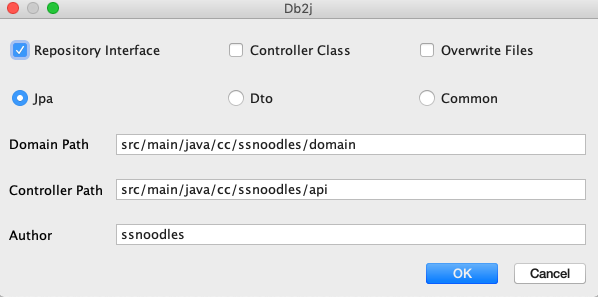
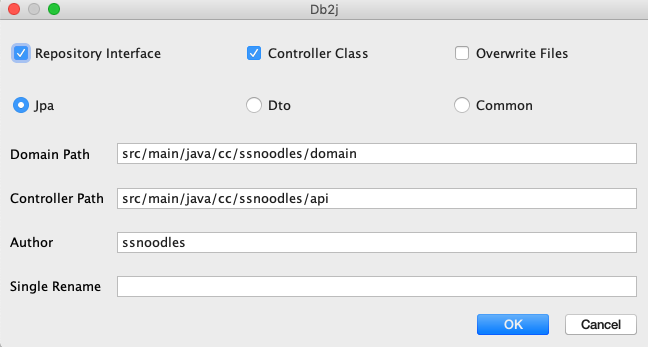
updated readme

diff --git a/README.md b/README.md
@@ -1,7 +1,7 @@
 # Db2j idea plugin
 [中文](README_CN.md)
 
-Features：use in database tool, select database tables to generate java files. includes: domain、repository、controller。
+Features：use in database tool, select database tables to generate java files. includes: domain、repository、controller.
 Idea Version：Ultimate 2019.1+
 [Plugin url](https://plugins.jetbrains.com/plugin/11965-db2j)
 
@@ -15,6 +15,10 @@ Idea Version：Ultimate 2019.1+
 ![image](images/video.gif)
 
 # Update log
+1.1.0 Ultimate 2019.1+
+* Support single table rename
+* Refactor file names, like XXForm -> NewXXData or XXUpdate; XXRef -> XXRecord
+
 1.0.9 Ultimate 2019.1+
 * Support overwrite files Selection 
 
@@ -70,7 +74,8 @@ Idea Version：Ultimate 2019.1+
 * Controller Path:
   * Single Module：`src/main/java/cc/ssnoodles/demo/api`
   * Multiple Modules：`base/src/main/java/cc/ssnoodles/demo/base/api`
-  
+* Single rename: Single table support rename class and interface, default table hump name.
+
 # Introduced projects
 * [db2j](https://github.com/SShnoodles/database2javafiles)
 * [lombok](https://www.projectlombok.org)

diff --git a/README_CN.md b/README_CN.md
@@ -13,6 +13,10 @@ Idea版本：Ultimate 2019.1+
 ![image](images/video.gif)
 
 # 更新日志
+1.1.0 Ultimate 2019.1+
+* 支持单表的重命名
+* 重构一些类名，比如 XXForm -> NewXXData or XXUpdate; XXRef -> XXRecord
+
 1.0.9 Ultimate 2019.1+
 * 支持是否覆盖文件选择
 
@@ -66,6 +70,7 @@ Idea版本：Ultimate 2019.1+
 * Controller Path: Controller类生成路径(正反斜杠都支持)
   * 单模块例子：`src/main/java/cc/ssnoodles/demo/api`
   * 多模块base模块例子：`base/src/main/java/cc/ssnoodles/demo/base/api`
+* Single rename: 单表支持重命名生成后的类和接口，默认表名驼峰格式。
   
 # 依赖项目
 * [db2j](https://github.com/SShnoodles/database2javafiles)
